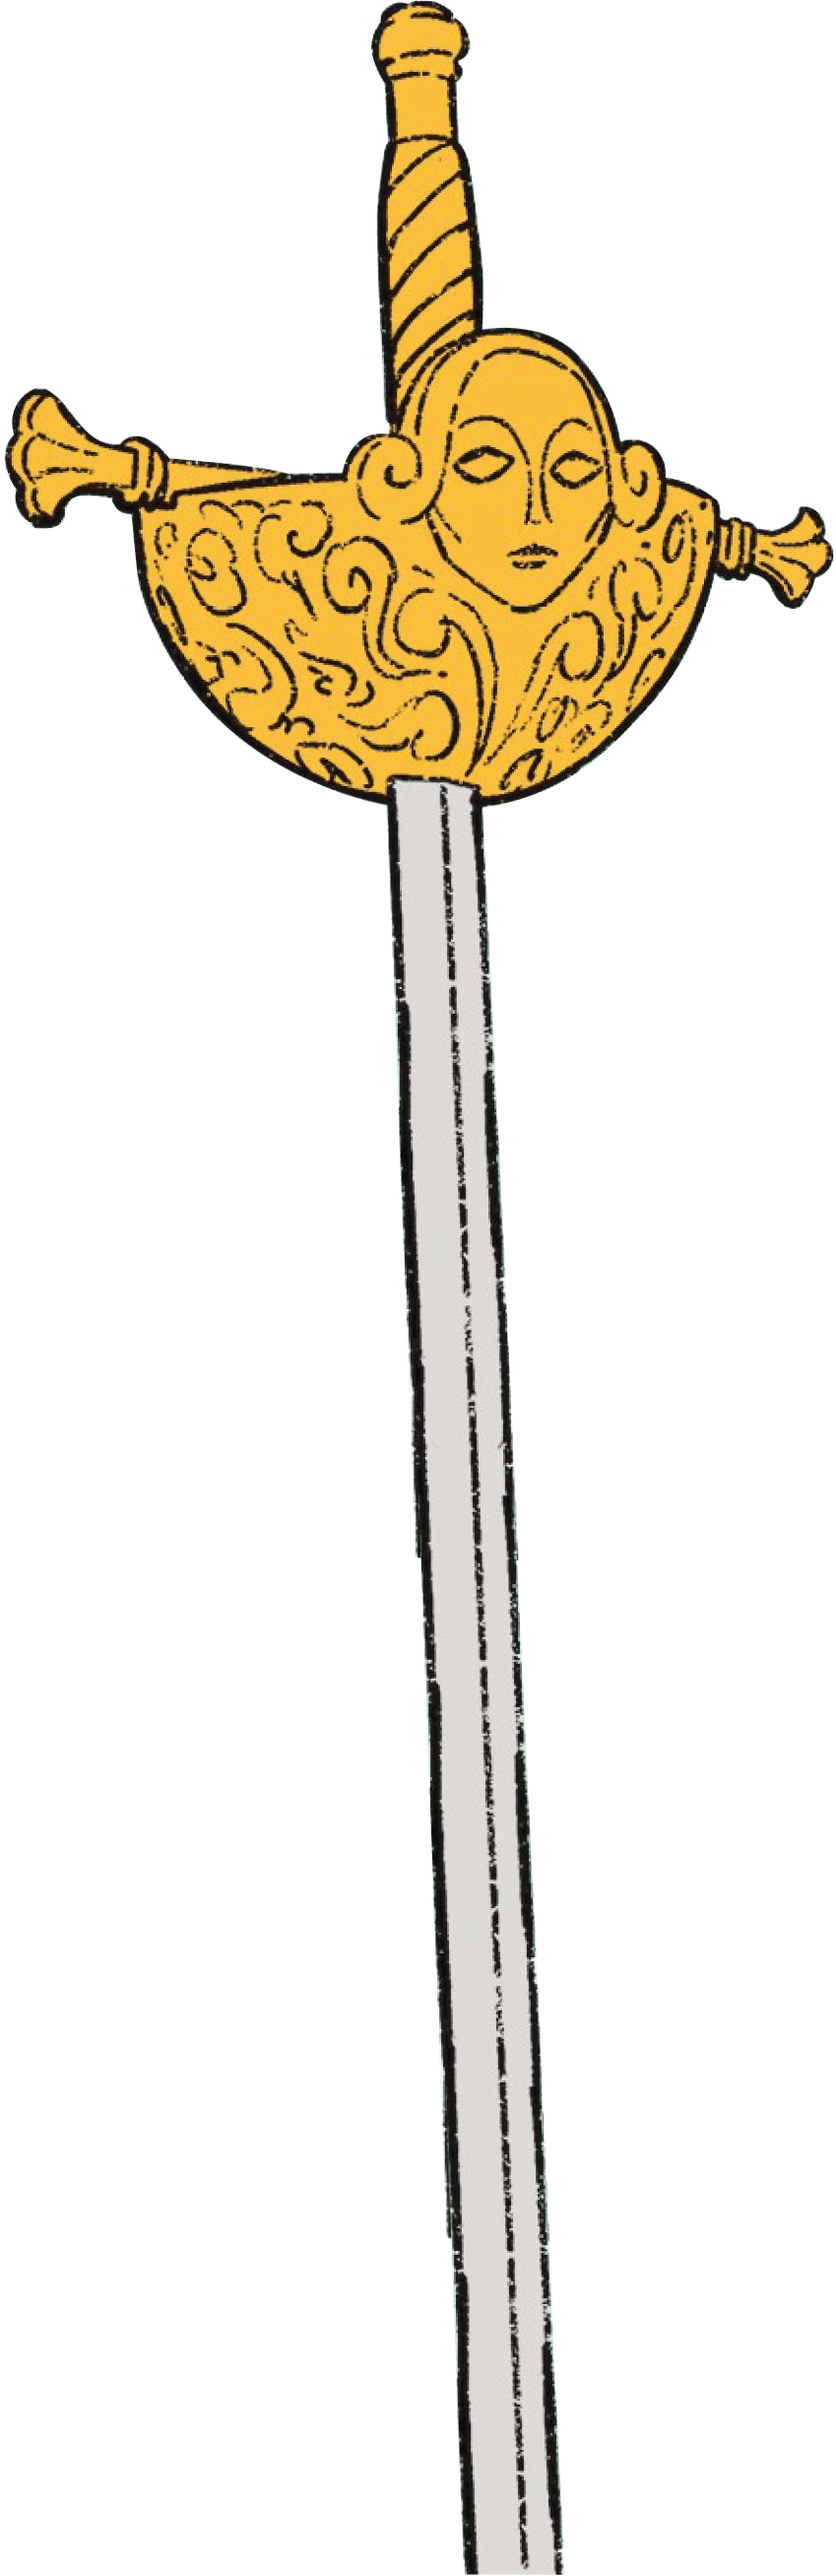
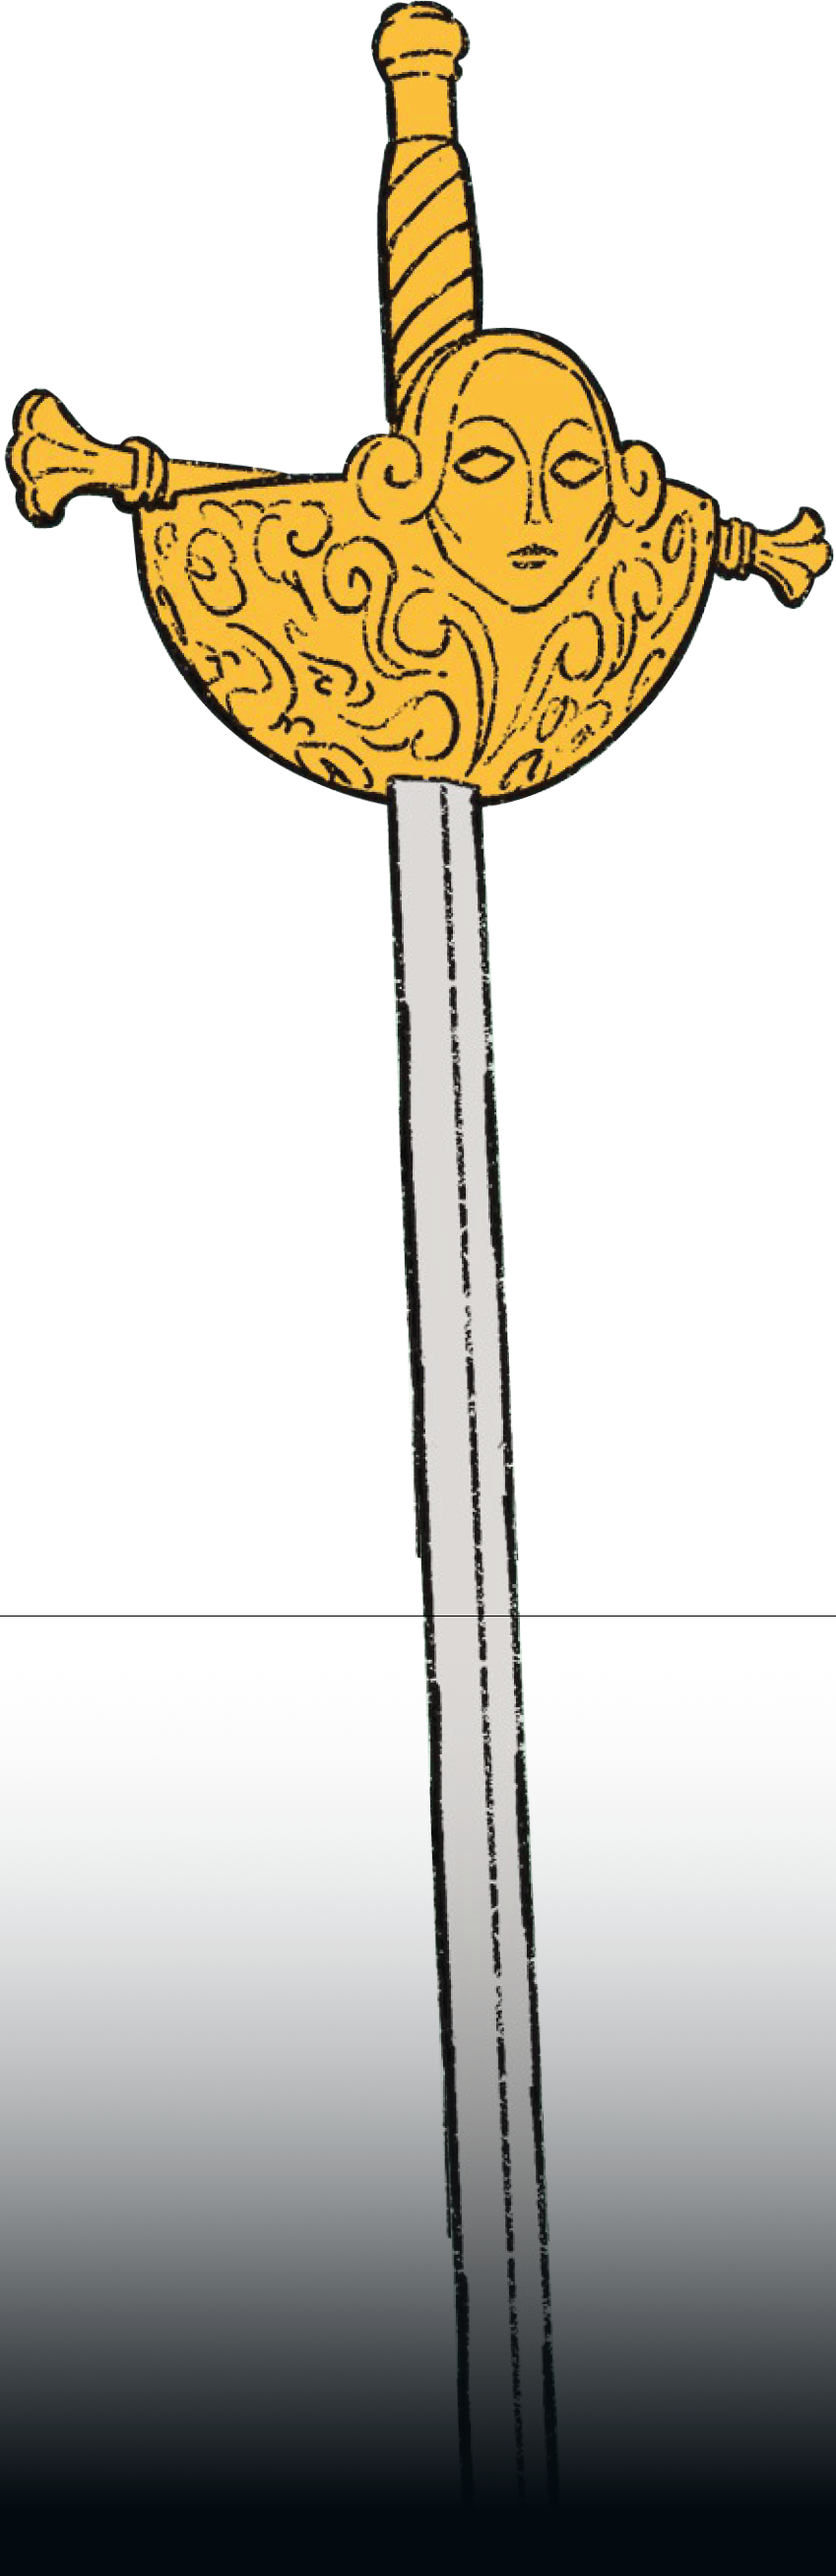
final v 1

Changed region(s): [[0.0, 0.7124, 1.0, 1.0]]

diff --git a/dist/index.html b/dist/index.html
@@ -1,1 +1,188 @@
-<!DOCTYPE html><html><head><meta charset="utf-8"><title>Furieuse</title><meta name="description" content="Découvrez l'univers fascinant de la bande dessinée 'Furieuse' et suivez Ysa dans toutes ses aventures à travers ce site interactif et visuellement captivant."><meta property="og:title" content="Furieuse"><meta property="og:description" content="Suivez Ysa dans toutes ses aventures à travers ce site interactif et visuellement captivant."><meta property="og:image" content="https://www.bdgest.com/rotator/images/3597_rot_preview.jpg?as=webp"><meta name="twitter:card" content="summary_large_image"><meta name="twitter:title" content="Furieuse"><meta name="twitter:description" content="Suivez Ysa dans toutes ses aventures à travers ce site interactif et visuellement captivant."><meta name="twitter:image" content="https://www.bdgest.com/rotator/images/3597_rot_preview.jpg?as=webp"><meta name="viewport" content="width=device-width, initial-scale=1.0"><link rel="stylesheet" href="css/index.96d9a5b9.css"><link rel="icon" href="img/Icon-ysa.fc08c04f.webp" type="image/x-icon"></head><body> <header> <div class="nav"> <h1> <img class="nav-logo" src="img/logo_white.fd388cdc.webp" alt="Logo furieuse"> </h1> <div class="nav-buttons"> <a href="#horizontal-scroll"><p>Découvrir Furieuse</p></a> <a href="#footer"><p>Acheter maintenant</p></a> </div> </div> <div class="parallax-container"> <div class="parallax-container-2"> <div class="parallax-element" id="element-1"> <img src="img/background.802f9228.webp" alt> </div> <div class="parallax-element" id="element-2"> <img src="img/header_background_2.3c91637d.webp" alt> </div> <div class="parallax-element" id="element-3"> <img src="img/header_isa.629f3b49.webp" alt> </div> <div class="parallax-element" id="element-4"> <img src="img/header_logo.635b256d.webp" alt> </div> <div class="parallax-element" id="element-5"> <img src="img/degrade.74137f10.webp" alt> </div> </div> </div> </header> <main id="horizontal-scroll"> <div class="slider-mask"> <div class="slider-container"> <div class="slider-1-item"> <img src="img/gallery_4.6d7e4945.webp" alt class="scroll-gallery-4"> <img src="img/gallery_2.4d62a249.webp" alt class="scroll-gallery-2"> <img src="img/gallery_3.350986d0.webp" alt class="scroll-gallery-3"> <img src="img/gallery_1.33c447e1.webp" alt class="scroll-gallery-1"> <img src="img/degrade_2.82e8cbf5.webp" alt class="scroll-degrade"> </div> <div class="slider-2-item"> <div class="image-container"> <img src="img/gallery_5.74858d3b.webp" alt class="scroll-gallery-5"> <img src="img/gallery_6.289b8ffc.webp" alt class="scroll-gallery-6"> </div> </div> <div class="slider-3-item"> <img src="img/gallery_7.3dbe839e.webp" alt class="scroll-gallery-7"> <img src="img/gallery_8.0c1e1a49.webp" alt class="scroll-gallery-8"> <img src="img/gallery_9.4344b0b4.webp" alt class="scroll-gallery-9"> <img src="img/gallery_10.2723dbc6.webp" alt class="scroll-gallery-10"> <img src="img/gallery_11.8b44913f.webp" alt class="scroll-gallery-11"> </div> <div class="slider-3-item"> <img src="img/gallery_12.84aef73f.webp" alt class="scroll-gallery-12"> <img src="img/gallery_13.314ce3f2.webp" alt class="scroll-gallery-13"> <img src="img/gallery_14.cfbc2c9e.webp" alt class="scroll-gallery-14"> <img src="img/gallery_15.c5b2cf18.webp" alt class="scroll-gallery-15"> <img src="img/gallery_16.7c48c44a.webp" alt class="scroll-gallery-16"> </div> <div class="slider-4-item"> <img src="img/gallery_17.18100930.webp" alt class="scroll-gallery-17"> <img src="img/gallery_18.35787a47.webp" alt class="scroll-gallery-18"> <img src="img/gallery_19.78ed6521.webp" alt class="scroll-gallery-19"> <img src="img/gallery_20.295df74c.webp" alt class="scroll-gallery-20"> <img src="img/gallery_21.6162694b.webp" alt class="scroll-gallery-21"> </div> </div> </div> <div class="spacer"></div> <div class="wrapper"> <div class="container"> <div class="epee"> <img id="epee" src="img/sowrd.7790b3e4.webp" alt> </div> <img class="bubbles-degrade" src="img/degrade_3.9e5476da.webp" alt> <div id="bulle-1" class="bulle"> <img class="bulle-1" src="img/sword_gallery_1.df9f2c01.webp" alt="bubble"> </div> <div id="bulle-2" class="bulle"> <img class="bulle-2" src="img/sword_gallery_2.05e6c31e.webp" alt="bubble"> </div> <div id="bulle-3" class="bulle"> <img class="bulle-3" src="img/sword_gallery_3.7d40ff65.webp" alt="bubble"> </div> <div id="bulle-4" class="bulle"> <img class="bulle-4" src="img/sword_gallery_4.f591f152.webp" alt="bubble"> </div> <div id="bulle-5" class="bulle"> <img class="bulle-5" src="img/sword_gallery_5.0b6f71f8.webp" alt="bubble"> </div> </div> </div> </main> <footer id="footer"> <div class="footer-product-container"> <div class="footer-info"> <h2><img src="img/logo_white.fd388cdc.webp" alt="Logo"></h2> <p> Après « Le Mystère du monde quantique » et « Sous Terre », Mathieu Burniat revient avec « Furieuse », une pure fiction scénarisée par Geoffroy Monde (« Poussière », « Comment réussir » et « De rien »). </p> <p> Le roi Arthur, celui de la légende ? Un vieil ivrogne décrépit qui passe ses journées vautré sur son trône. Sa gloire désormais bien lointaine, il la doit à l'épée magique que Merlin lui a forgée pour terrasser les hordes de démons venues envahir le royaume de Pendragon... </p> <div class="footer-details"> <h3>Details</h3> <p> Une BD de Geoffroy Monde et Mathieu Burniat édité par DARGAUD de 240 pages. Date de parution : 14.10.2022 ISBN-13 : 978-2205203226 </p> <div class="footer-button-container"> <div class="footer-button">ACHETER MAINTENANT</div> <div class="footer-button">VOIR LES POINTS DE VENTE</div> </div> </div> </div> <div class="footer-product"> <img src="img/book_mockup.437e83ff.webp" alt="Lvre furieuse"> </div> </div> <hr> <div class="footer-block-container"> <div class="footer-block-1"> <h4> <img src="img/logo-dargaud.477bf7ad.svg" alt="Logo Dargaud"> </h4> <div class="footerlinks"> <div class="social-media"> <img src="img/instagram.26e100e5.svg" alt="Logo instagram"> <img src="img/facebook.c9d8b18b.svg" alt="Logo Facebook"> <img src="img/x.fd9754e9.svg" alt="Logo X"> </div> <div class="footer-policies"> <a href>CONDITIONS GÉNÉRALES</a> <a href>POLITIQUE DE CONFIDENTIALITÉ</a> </div> </div> <div class="footer-newsletter"> <h5>ABONNE-TOI À NOTRE NEWLETTERS</h5> <div class="footer-form-container"> <div class="footer-form"> <form action="#" method="post"> <input type="email" placeholder="INSÉREZ VOTRE E-MAIL ICI" required> </form> <button type="submit">S'ABONNER</button> </div> </div> </div> </div> <div class="footer-block-2"> <h5>À PROPOS</h5> <p>LES AUTEURS</p> <p>ACHETER LA BD</p> <p>TROUVER LES POINTS DE VENTE</p> <p>LES AUTRES TITRES DE DARGAUD</p> </div> </div> <div class="footer-copyright"> <p>Tous droits reservés ©Dargaud 2023</p> </div> </footer> <script src="js/index.dfba76b0.js" type="module"></script> </body></html>
+<!DOCTYPE html>
+<html>
+  <head>
+    <meta charset="utf-8">
+    <title>Furieuse</title>
+    <meta name="description" content="Découvrez l'univers fascinant de la bande dessinée 'Furieuse' et suivez Ysa dans toutes ses aventures à travers ce site interactif et visuellement captivant.">
+    <meta property="og:title" content="Furieuse">
+    <meta property="og:description" content="Suivez Ysa dans toutes ses aventures à travers ce site interactif et visuellement captivant.">
+    <meta property="og:image" content="https://www.bdgest.com/rotator/images/3597_rot_preview.jpg?as=webp">
+    <meta name="twitter:card" content="summary_large_image">
+    <meta name="twitter:title" content="Furieuse">
+    <meta name="twitter:description" content="Suivez Ysa dans toutes ses aventures à travers ce site interactif et visuellement captivant.">
+    <meta name="twitter:image" content="https://www.bdgest.com/rotator/images/3597_rot_preview.jpg?as=webp">
+    <meta name="viewport" content="width=device-width, initial-scale=1.0">
+    <link rel="stylesheet" href="/css/index.b10d73a7.css">
+    <link rel="icon" href="/img/Icon-ysa.e110183f.webp" type="image/x-icon">
+  </head>
+  <body>
+    <header>
+      <div class="nav">
+        <h1>
+          <img class="nav-logo" src="/img/logo_white.bd032676.webp" alt="Logo furieuse">
+        </h1>
+        <div class="nav-buttons">
+          <a href="#horizontal-scroll"><p>Découvrir Furieuse</p></a>
+          <a href="#footer"><p>Acheter maintenant</p></a>
+        </div>
+      </div>
+      <div class="parallax-container">
+        <div class="parallax-container-2">
+          <div class="parallax-element" id="element-1">
+            <img src="/img/background.3dc8dea3.webp" alt="">
+          </div>
+          <div class="parallax-element" id="element-2">
+            <img src="/img/header_background_2.b1c59d7c.webp" alt="">
+          </div>
+          <div class="parallax-element" id="element-3">
+            <img src="/img/header_isa.a8cee6ab.webp" alt="">
+          </div>
+          <div class="parallax-element" id="element-4">
+            <img src="/img/header_logo.07eef7d0.webp" alt="">
+          </div>
+          <div class="parallax-element" id="element-5">
+            <img src="/img/degrade.4e9dfd29.webp" alt="">
+          </div>
+        </div>
+      </div>
+    </header>
+    <main id="horizontal-scroll">
+      <div class="slider-mask">
+        <div class="slider-container">
+          <div class="slider-1-item">
+            <img src="/img/gallery_4.4ce3ea3c.webp" alt="" class="scroll-gallery-4">
+            <img src="/img/gallery_2.b8775b0a.webp" alt="" class="scroll-gallery-2">
+            <img src="/img/gallery_3.65f982ba.webp" alt="" class="scroll-gallery-3">
+            <img src="/img/gallery_1.0d219bba.webp" alt="" class="scroll-gallery-1">
+            <img src="/img/degrade_2.f23493e4.webp" alt="" class="scroll-degrade">
+          </div>
+          <div class="slider-2-item">
+            <div class="image-container">
+              <img src="/img/gallery_5.61653ccc.webp" alt="" class="scroll-gallery-5">
+              <img src="/img/gallery_6.b993bed6.webp" alt="" class="scroll-gallery-6">
+            </div>
+          </div>
+          <div class="slider-3-item">
+            <img src="/img/gallery_7.9b1309ed.webp" alt="" class="scroll-gallery-7">
+            <img src="/img/gallery_8.a8453fc1.webp" alt="" class="scroll-gallery-8">
+            <img src="/img/gallery_9.932e573f.webp" alt="" class="scroll-gallery-9">
+            <img src="/img/gallery_10.53bfaffc.webp" alt="" class="scroll-gallery-10">
+            <img src="/img/gallery_11.11048c4e.webp" alt="" class="scroll-gallery-11">
+          </div>
+          <div class="slider-3-item">
+            <img src="/img/gallery_12.4c3d01e5.webp" alt="" class="scroll-gallery-12">
+            <img src="/img/gallery_13.058d0871.webp" alt="" class="scroll-gallery-13">
+            <img src="/img/gallery_14.e2c450d7.webp" alt="" class="scroll-gallery-14">
+            <img src="/img/gallery_15.b0ba34d7.webp" alt="" class="scroll-gallery-15">
+            <img src="/img/gallery_16.b74cb0e5.webp" alt="" class="scroll-gallery-16">
+          </div>
+          <div class="slider-4-item">
+            <img src="/img/gallery_17.0264c78f.webp" alt="" class="scroll-gallery-17">
+            <img src="/img/gallery_18.09a54283.webp" alt="" class="scroll-gallery-18">
+            <img src="/img/gallery_19.dbf7cc19.webp" alt="" class="scroll-gallery-19">
+            <img src="/img/gallery_20.da9729af.webp" alt="" class="scroll-gallery-20">
+            <img src="/img/gallery_21.24403095.webp" alt="" class="scroll-gallery-21">
+          </div>
+        </div>
+      </div>
+      <div class="spacer"></div>
+      <div class="wrapper">
+        <div class="container">
+          <div class="epee">
+            <img id="epee" src="/img/sowrd.d5fb704c.webp" alt="">
+          </div>
+          <div id="bulle-1" class="bulle">
+            <img class="bulle-1" src="/img/sword_gallery_1.f7934967.webp" alt="bubble">
+          </div>
+          <div id="bulle-2" class="bulle">
+            <img class="bulle-2" src="/img/sword_gallery_2.612dfa91.webp" alt="bubble">
+          </div>
+          <div id="bulle-3" class="bulle">
+            <img class="bulle-3" src="/img/sword_gallery_3.a9b865e6.webp" alt="bubble">
+          </div>
+          <div id="bulle-4" class="bulle">
+            <img class="bulle-4" src="/img/sword_gallery_4.bf86695c.webp" alt="bubble">
+          </div>
+          <div id="bulle-5" class="bulle">
+            <img class="bulle-5" src="/img/sword_gallery_5.cbb7a431.webp" alt="bubble">
+          </div>
+        </div>
+      </div>
+    </main>
+    <footer id="footer">
+      <div class="footer-product-container">
+        <div class="footer-info">
+          <h2><img src="/img/logo_white.bd032676.webp" alt="Logo"></h2>
+          <p>
+            Après « Le Mystère du monde quantique » et « Sous Terre », Mathieu
+            Burniat revient avec « Furieuse », une pure fiction scénarisée par
+            Geoffroy Monde (« Poussière », « Comment réussir » et « De rien »).
+          </p>
+          <p>
+            Le roi Arthur, celui de la légende ? Un vieil ivrogne décrépit qui
+            passe ses journées vautré sur son trône. Sa gloire désormais bien
+            lointaine, il la doit à l'épée magique que Merlin lui a forgée pour
+            terrasser les hordes de démons venues envahir le royaume de
+            Pendragon...
+          </p>
+          <div class="footer-details">
+            <h3>Details</h3>
+            <p>
+              Une BD de Geoffroy Monde et Mathieu Burniat édité par DARGAUD de
+              240 pages. Date de parution : 14.10.2022 ISBN-13 : 978-2205203226
+            </p>
+            <div class="footer-button-container">
+              <div class="footer-button">ACHETER MAINTENANT</div>
+              <div class="footer-button">VOIR LES POINTS DE VENTE</div>
+            </div>
+          </div>
+        </div>
+        <div class="footer-product">
+          <img src="/img/book_mockup.841452a3.webp" alt="Lvre furieuse">
+        </div>
+      </div>
+      <hr>
+      <div class="footer-block-container">
+        <div class="footer-block-1">
+          <h4>
+            <img src="/img/logo-dargaud.1c0d40fa.svg" alt="Logo Dargaud">
+          </h4>
+          <div class="footerlinks">
+            <div class="social-media">
+              <img src="/img/instagram.b1658998.svg" alt="Logo instagram">
+              <img src="/img/facebook.f28ed813.svg" alt="Logo Facebook">
+              <img src="/img/x.af1ee05e.svg" alt="Logo X">
+            </div>
+            <div class="footer-policies">
+              <a href="">CONDITIONS GÉNÉRALES</a>
+              <a href="">POLITIQUE DE CONFIDENTIALITÉ</a>
+            </div>
+          </div>
+          <div class="footer-newsletter">
+            <h5>ABONNE-TOI À NOTRE NEWLETTERS</h5>
+            <div class="footer-form-container">
+              <div class="footer-form">
+                <form action="#" method="POST">
+                  <input type="email" placeholder="INSÉREZ VOTRE E-MAIL ICI" required="">
+                </form>
+                <button type="submit">S'ABONNER</button>
+              </div>
+            </div>
+          </div>
+        </div>
+        <div class="footer-block-2">
+          <h5>À PROPOS</h5>
+          <p>LES AUTEURS</p>
+          <p>ACHETER LA BD</p>
+          <p>TROUVER LES POINTS DE VENTE</p>
+          <p>LES AUTRES TITRES DE DARGAUD</p>
+        </div>
+      </div>
+      <div class="footer-copyright">
+        <p>Tous droits reservés ©Dargaud 2023</p>
+      </div>
+    </footer>
+
+    <script src="/js/index.18dbc454.js" defer=""></script>
+  </body>
+</html>

diff --git a/dist/css/index.b10d73a7.css b/dist/css/index.b10d73a7.css
@@ -359,7 +359,7 @@ html {
 footer {
   color: #fff;
   background: #040a0f;
-  height: 242vh;
+  height: 275vh;
   padding-top: 200px;
 }
 
@@ -561,7 +561,7 @@ footer a:hover {
 }
 
 .footer-block-2 {
-  margin: 165px 0 0 20px;
+  margin: 110px 0 0 20px;
   font-family: Creato Display, sans-serif;
 }
 
@@ -577,12 +577,14 @@ footer a:hover {
 }
 
 .footer-block-2 p {
+  margin-top: 15px;
   font-size: 16px;
 }
 
 .footer-copyright {
   text-align: center;
   opacity: .7;
+  margin-top: 250px;
   font-family: Creato Display;
   font-size: 13px;
 }

diff --git a/src/scss/modules/_footer.scss b/src/scss/modules/_footer.scss
@@ -1,6 +1,6 @@
 footer {
   padding-top: 200px;
-  height: 242vh;
+  height: 275vh;
   background: #040a0f;
   color: #fff;
 }
@@ -208,7 +208,7 @@ footer a:hover {
 }
 
 .footer-block-2 {
-  margin: 165px 0 0 20px;
+  margin: 110px 0 0 20px;
   font-family: "Creato Display", sans-serif;
 }
 
@@ -224,9 +224,11 @@ footer a:hover {
 }
 .footer-block-2 p {
   font-size: 16px;
+  margin-top: 15px;
 }
 
 .footer-copyright {
+  margin-top: 250px;
   text-align: center;
   font-family: "Creato Display";
   font-size: 13px;

diff --git a/src/index.html b/src/index.html
@@ -198,11 +198,6 @@
           <div class="epee">
             <img id="epee" src="/img/sowrd.png?as=webp" alt="" />
           </div>
-          <img
-            class="bubbles-degrade"
-            src="../img/degrade_3.png?as=webp"
-            alt=""
-          />
           <div id="bulle-1" class="bulle">
             <img
               class="bulle-1"
